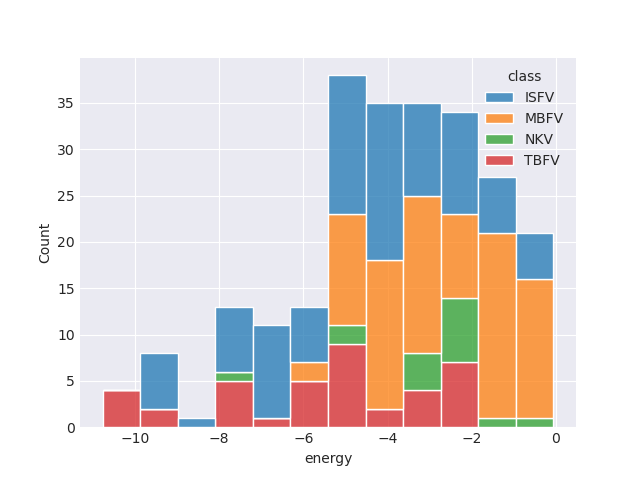
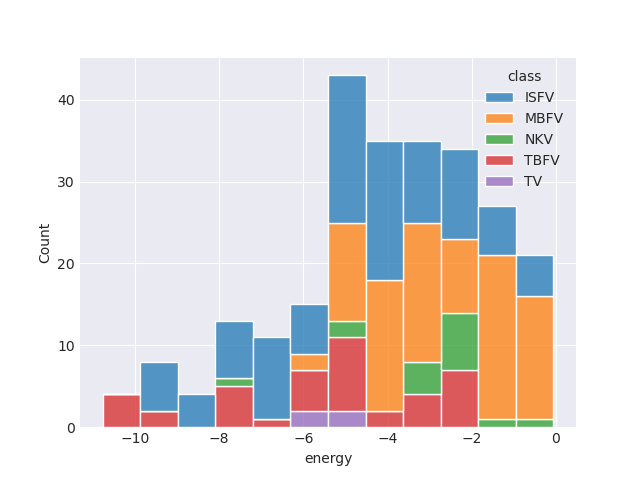
Bigger Database + Added default colour

diff --git a/main.py b/main.py
@@ -6,7 +6,7 @@ from Codes.alignment import get_alignment_sequences
 import pandas as pd
 
 ## Input IntaRNA Paths:
-database_path = "Data/Flavivirus_NCBI/Flavivirus_RefSeq_20220621"
+database_path = "Data/Flavivirus_NCBI/Flavivirus_RefSeq_20231111"
 
 ## Output IntaRNA Paths:
 static_param_path = "Data/static_parameter.cfg"
@@ -40,11 +40,11 @@ static_d = {"energyVRNA": "Data/rna_andronescu2007.par",
 
 
 if __name__ == "__main__":
-    #write_static_parameters(static_d, static_param_path)
-    #create_parameter_table(database_path, extra_bases, parameter_table_file)
-    #main_intarna(static_param_path, extra_bases, extra_bases_roi,
-    #             parameter_table_file, IntaRNA_output, raw_IntaRNA_output,
-    #             outNumber)
+    write_static_parameters(static_d, static_param_path)
+    create_parameter_table(database_path, extra_bases, parameter_table_file)
+    main_intarna(static_param_path, extra_bases, extra_bases_roi,
+                 parameter_table_file, IntaRNA_output, raw_IntaRNA_output,
+                 outNumber)
     df = pd.read_csv(IntaRNA_output)
     ###create_cms(stockholm_directory, covariance_dir) ## Do not uncomment unless new data.
     df = cm_search(df, covariance_dir, database_path, cm_output)

diff --git a/Codes/evaluation.py b/Codes/evaluation.py
@@ -6,11 +6,16 @@ import ast
 import pandas as pd
 import numpy as np
 import math
+from collections import defaultdict
 
 
 main_colours = {"UTR": "gray", "interaction" : "red", "subopt": "orange"}
-CDS_colours = {"ISFV":"c","MBFV":"blue","NKV":"green","TBFV":"m"}
-CMS_hit_colours = {"ISFV":"lightcyan","MBFV":"cornflowerblue","NKV":"limegreen","TBFV":"plum"}
+CDS_colours = defaultdict(lambda:"hotpink")
+CMS_hit_colours = defaultdict(lambda:"hotpink")
+for k, v in [("ISFV","c"),("MBFV","blue"),("NKV","green"),("TBFV","m")]:
+    CDS_colours[k] = v
+for k, v in [("ISFV","lightcyan"),("MBFV","cornflowerblue"),("NKV","limegreen"),("TBFV","plum")]:
+    CMS_hit_colours[k] = v
 
 def draw_lineplots(df, extra_bases_roi, output):
     """
